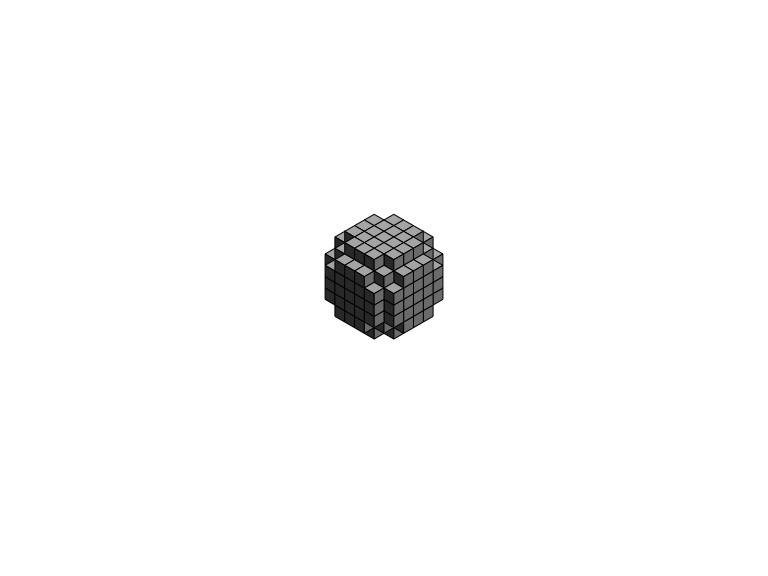
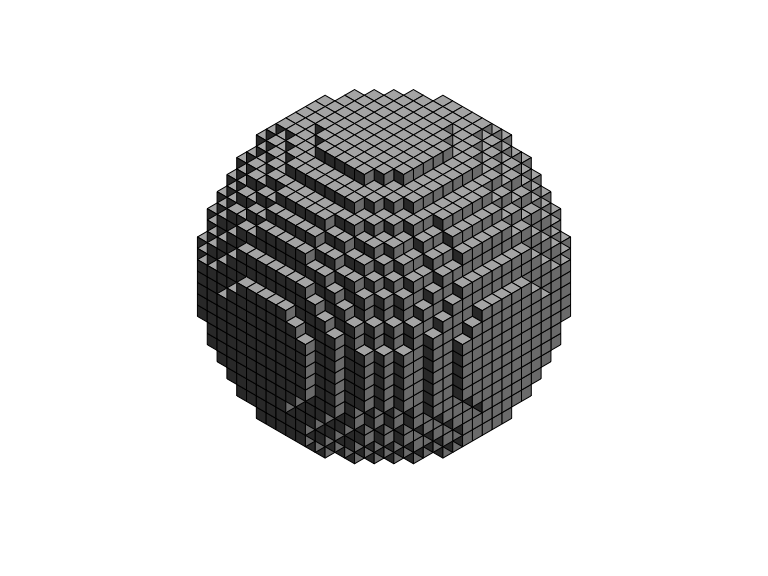
regen readme

Changed region(s): [[0.25, 0.1562, 0.75, 0.8125]]

diff --git a/README.md b/README.md
@@ -101,20 +101,22 @@ grid.newpage(); grid.draw(cubes)
 ## Visibility checks
 
 When drawing an isocube, the visibility of each face of each cube is
-determined.
+calculated
 
 This at first seems like a lot of work, but it helps in a number of
 ways:
 
 - Using a bespoke spatial hash for the coordinates avoids having to do a
-  front-to-back sort of the cubes.
+  front-to-back sort of all the cubes.
 - Only polygons for visible faces are drawn
-  - so we don’t need painters algorithm for drawing in order from back
-    to front.
   - The number of visible faces (at best) approaches 1/3 the number of
     faces which would be drawn if only per-voxel visibility is
     considered.
   - Fewer polygons = faster to actually `grid.draw()` the object
+  - Painters algorithm is still required as currently only doing
+    per-face visibility, but faces can be half-visible. It would be
+    possible to take into account half-face visibility, but that’s left
+    for as a future task.
 
 <img src="man/figures/README-visibility-1.png" width="100%" />
 
@@ -127,7 +129,7 @@ package as `sphere_coords`.
 library(grid)
 library(isocubes)
 
-N      <- 4
+N      <- 13
 coords <- expand.grid(x=seq(-N, N), y = seq(-N, N), z = seq(-N, N))
 keep   <- with(coords, sqrt(x * x + y * y + z * z)) < N
 coords <- coords[keep,]
